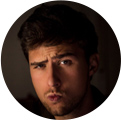
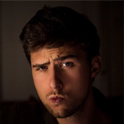
first fix

diff --git a/hw-08/index.html b/hw-08/index.html
@@ -8,45 +8,45 @@
     <title>Module 8 &#174; E.Voida</title>
   </head>
   <body>
-    <div class="wrapper">
-      <div class="masthead-wrapper">
-        <section class="masthead conteiner">
-          <header class="masthead__header">
-            <a href="#" class="link-logo">
-              <h1 class="logo title--light">URLAUBSGLÜCK</h1>
-            </a>
-            <nav class="header-nav">
-              <ul class="nav-list">
-                <li class="nav-item">
-                  <a href="#" class="nav-link title--light">Log in</a>
-                </li>
-                <li class="nav-item">
-                  <a href="#" class="nav-link title--light">Sign up</a>
-                </li>
-              </ul>
-            </nav>
-          </header>
-          <section class="masthead__hero">
-            <h2 class="hero__title-up title--light">
-              Share your holiday dreams
-            </h2>
-            <p class="hero__title-down">
-              And find the perfect partner to fullfill it
-            </p>
-            <a href="#" class="hero__button link-button title--light"
-              >Find your holiday partner</a
-            >
-          </section>
+    <div class="masthead-wrapper">
+      <div class="conteiner">
+        <header class="masthead__header">
+          <a href="#" class="link-logo">
+            <h1 class="logo title--light">URLAUBSGLÜCK</h1>
+          </a>
+          <div class="header-register">
+            <ul class="register-list">
+              <li class="register-item">
+                <button class="register-button title--light">Log in</button>
+              </li>
+              <li class="register-item">
+                <button class="register-button title--light">Sign up</button>
+              </li>
+            </ul>
+          </div>
+        </header>
+        <section class="masthead__hero">
+          <h2 class="hero__title-up title--light">
+            Share your holiday dreams
+          </h2>
+          <p class="hero__title-down">
+            And find the perfect partner to fullfill it
+          </p>
+          <a href="#" class="hero__button link-button title--light"
+            >Find your holiday partner</a
+          >
         </section>
       </div>
-      <section class="partners__section conteiner">
+    </div>
+    <div class="conteiner">
+      <section class="partners__section">
         <h2 class="partners-title title--dark">
           Meet a partner for your best holiday
         </h2>
         <ul class="partners-list">
           <li class="partners-list_item">
             <figure class="partners-figure">
-              <div class="img-container">
+              <div class="img-container first-partners">
                 <img
                   src="./img/partners/partner1.jpg"
                   alt="partner photo"
@@ -54,7 +54,6 @@
                   width="121"
                   height="121"
                 />
-                <span class="img-icons first-partners"></span>
               </div>
               <figcaption class="figure-partners_figcaption">
                 <h3 class="partners-name title--dark">Bradley Hunter</h3>
@@ -66,7 +65,7 @@
           </li>
           <li class="partners-list_item">
             <figure class="partners-figure">
-              <div class="img-container">
+              <div class="img-container second-partners">
                 <img
                   src="./img/partners/partner2.jpg"
                   alt="partner photo"
@@ -74,7 +73,6 @@
                   width="121"
                   height="121"
                 />
-                <span class="img-icons second-partners"></span>
               </div>
               <figcaption class="figure-partners_figcaption">
                 <h3 class="partners-name title--dark">Lucas Marsha</h3>
@@ -87,7 +85,7 @@
           </li>
           <li class="partners-list_item">
             <figure class="partners-figure">
-              <div class="img-container">
+              <div class="img-container third-partners">
                 <img
                   src="./img/partners/partner3.jpg"
                   alt="partner photo"
@@ -95,7 +93,6 @@
                   width="121"
                   height="121"
                 />
-                <span class="img-icons third-partners"></span>
               </div>
               <figcaption class="figure-partners_figcaption">
                 <h3 class="partners-name title--dark">Heather Walker</h3>
@@ -107,7 +104,7 @@
           </li>
           <li class="partners-list_item">
             <figure class="partners-figure">
-              <div class="img-container">
+              <div class="img-container fourth-partners">
                 <img
                   src="./img/partners/partner4.jpg"
                   alt="partner photo"
@@ -115,7 +112,6 @@
                   width="121"
                   height="121"
                 />
-                <span class="img-icons fourth-partners"></span>
               </div>
               <figcaption class="figure-partners_figcaption">
                 <h3 class="partners-name title--dark">Bradley Hunter</h3>

diff --git a/hw-08/css/components/header.css b/hw-08/css/components/header.css
@@ -1,8 +1,6 @@
 .masthead-wrapper {
   background: var(--wrapper-color) url("../../img/banner.png") center no-repeat;
   background-size: cover;
-}
-.masthead {
   padding: 20px 0 140px 0;
   text-align: center;
 }
@@ -15,20 +13,22 @@
 .logo {
   font-size: 20px;
 }
-
-.nav-list {
+.register-list {
   display: flex;
 }
-.nav-item:nth-child(-n + 1) {
+.register-item:nth-child(-n + 1) {
   margin-right: 5px;
 }
-.nav-link {
-  display: inline-block;
+.register-button {
   border-radius: 18px;
-  padding: 10px 16px;
+  width: 90px;
+  height: 35px;
+  background: transparent;
+  border: 2px solid transparent;
+  outline: none;
 }
-.nav-link:focus {
-  box-shadow: 0 0 0 2px var(--main-color);
+.register-button:focus {
+  border-color: var(--main-color);
 }
 .hero__title-up {
   font-size: 30px;
@@ -47,7 +47,7 @@
   padding: 10px 50px;
 }
 @media screen and (max-width: 767px) {
-  .header-nav {
+  .header-register {
     margin-bottom: 110px;
   }
   .masthead__hero {
@@ -58,7 +58,7 @@
   }
 }
 @media screen and (min-width: 768px) {
-  .masthead {
+  .masthead-wrapper {
     padding: 40px 0 235px 0;
   }
   .masthead__header {

diff --git a/hw-08/css/components/partners.css b/hw-08/css/components/partners.css
@@ -13,7 +13,7 @@
   position: relative;
   margin-bottom: 20px;
 }
-.img-icons::after {
+.img-container::after {
   content: "";
   position: absolute;
   top: 50%;
@@ -42,6 +42,9 @@
 .fourth-partners::after {
   background-color: var(--fourth-par);
   background-position: -11px -66px;
+}
+.partners-img {
+  border-radius: 50%;
 }
 .figure-partners_figcaption {
   width: 215px;

diff --git a/hw-08/css/libs/utils.css b/hw-08/css/libs/utils.css
@@ -3,9 +3,6 @@
 *::after {
   box-sizing: border-box;
 }
-.wrapper {
-  min-width: 320px;
-}
 @media screen and (min-width: 768px) {
   .conteiner {
     width: 660px;
